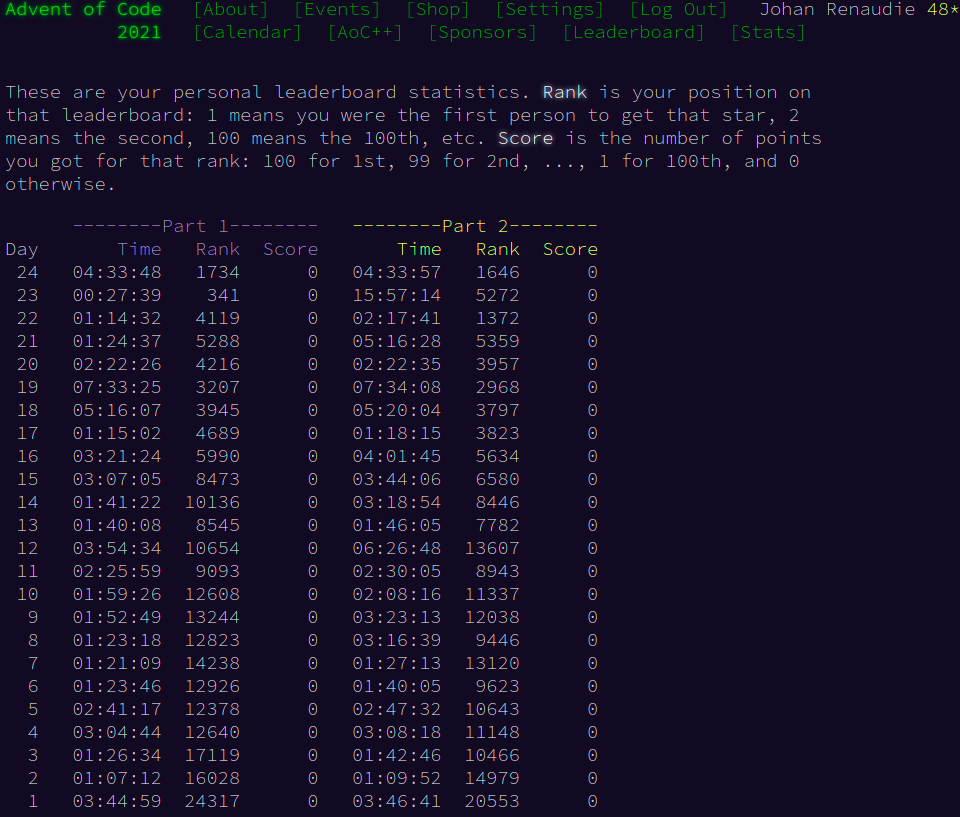
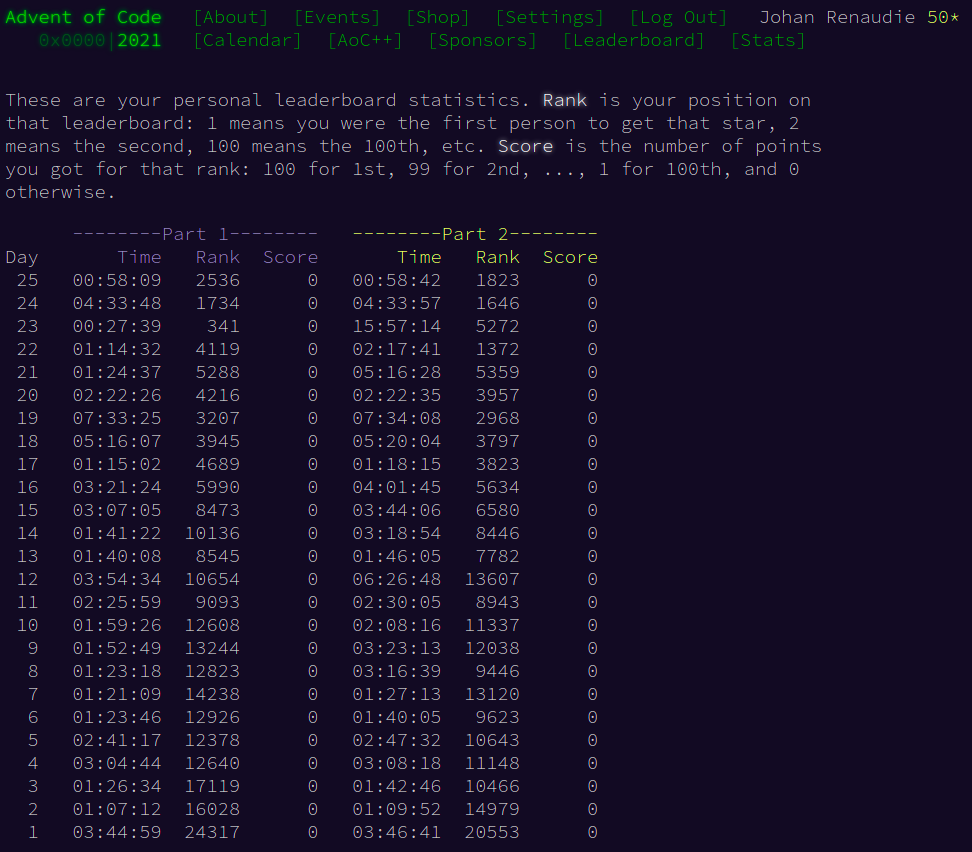
day25

diff --git a/2021/README.md b/2021/README.md
@@ -4,6 +4,7 @@ https://adventofcode.com/2021
 
 ![](screenshot.png)
 
+![](screenshot2.png)
 
 ## Visualizations
 
